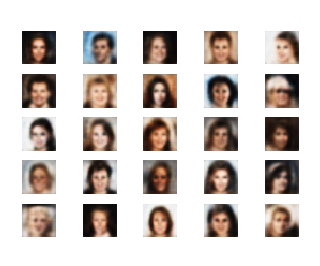
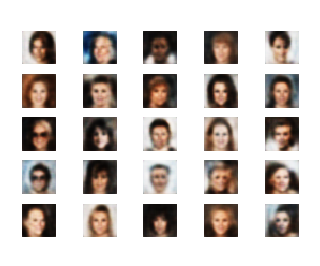
eh?

diff --git a/began_celeba.py b/began_celeba.py
@@ -62,10 +62,11 @@ class CelebABEGAN:
         embedding_shape = (h,)
         noise = tf.keras.layers.Input(shape=embedding_shape, name="h", dtype="float32")
 
-        hid = tf.keras.layers.Dense(8 * 8 * self.n, input_shape=embedding_shape, activation='elu')(noise)
+        hid = tf.keras.layers.Dense(8 * 8 * self.n, input_shape=embedding_shape)(noise)
         hid = tf.keras.layers.Reshape((8, 8, self.n))(hid)
 
         hid = tf.keras.layers.Conv2D(self.n, kernel_size=3, padding='same')(hid)
+        hid = tf.keras.layers.BatchNormalization(momentum=0.8)(hid)
         hid = tf.keras.layers.Activation('elu')(hid)
         hid = tf.keras.layers.Conv2D(self.n, kernel_size=3, padding='same')(hid)
         hid = tf.keras.layers.BatchNormalization(momentum=0.8)(hid)
@@ -74,6 +75,7 @@ class CelebABEGAN:
 
         hid = tf.keras.layers.UpSampling2D((2, 2))(hid)
         hid = tf.keras.layers.Conv2D(self.n, kernel_size=3, padding='same')(hid)
+        hid = tf.keras.layers.BatchNormalization(momentum=0.8)(hid)
         hid = tf.keras.layers.Activation('elu')(hid)
         hid = tf.keras.layers.Conv2D(self.n, kernel_size=3, padding='same')(hid)
         hid = tf.keras.layers.BatchNormalization(momentum=0.8)(hid)
@@ -82,6 +84,7 @@ class CelebABEGAN:
 
         hid = tf.keras.layers.UpSampling2D((2, 2))(hid)
         hid = tf.keras.layers.Conv2D(self.n, kernel_size=3, padding='same')(hid)
+        hid = tf.keras.layers.BatchNormalization(momentum=0.8)(hid)
         hid = tf.keras.layers.Activation('elu')(hid)
         hid = tf.keras.layers.Conv2D(self.n, kernel_size=3, padding='same')(hid)
         hid = tf.keras.layers.BatchNormalization(momentum=0.8)(hid)
@@ -99,6 +102,7 @@ class CelebABEGAN:
         img = tf.keras.layers.Input(shape=self.img_shape, name="image", dtype="float32")
 
         hid = tf.keras.layers.Conv2D(self.n, kernel_size=3, padding='same')(img)
+        hid = tf.keras.layers.BatchNormalization(momentum=0.8)(hid)
         hid = tf.keras.layers.Activation('elu')(hid)
         hid = tf.keras.layers.Conv2D(self.n, kernel_size=3, padding='same')(hid)
         hid = tf.keras.layers.BatchNormalization(momentum=0.8)(hid)
@@ -106,6 +110,7 @@ class CelebABEGAN:
         # (None, 32, 32, n)
 
         hid = tf.keras.layers.Conv2D(2 * self.n, kernel_size=3, padding='same', strides=2)(hid)
+        hid = tf.keras.layers.BatchNormalization(momentum=0.8)(hid)
         hid = tf.keras.layers.Activation('elu')(hid)
         hid = tf.keras.layers.Conv2D(2 * self.n, kernel_size=3, padding='same')(hid)
         hid = tf.keras.layers.BatchNormalization(momentum=0.8)(hid)
@@ -113,8 +118,10 @@ class CelebABEGAN:
         # (None, 16, 16, 2n)
 
         hid = tf.keras.layers.Conv2D(3 * self.n, kernel_size=3, padding='same', strides=2)(hid)
+        hid = tf.keras.layers.BatchNormalization(momentum=0.8)(hid)
         hid = tf.keras.layers.Activation('elu')(hid)
         hid = tf.keras.layers.Conv2D(3 * self.n, kernel_size=3, padding='same')(hid)
+        hid = tf.keras.layers.BatchNormalization(momentum=0.8)(hid)
         hid = tf.keras.layers.Activation('elu')(hid)
         hid = tf.keras.layers.Conv2D(3 * self.n, kernel_size=3, padding='same')(hid)
         hid = tf.keras.layers.BatchNormalization(momentum=0.8)(hid)
@@ -122,7 +129,7 @@ class CelebABEGAN:
         # (None, 8, 8, 3n)
 
         hid = tf.keras.layers.Flatten()(hid)
-        enc_img = tf.keras.layers.Dense(self.h)(hid)
+        enc_img = tf.keras.layers.Dense(self.h, activation='tanh')(hid)
 
         model = tf.keras.models.Model(inputs=img, outputs=enc_img)
         model.summary()
@@ -244,12 +251,12 @@ class CelebABEGAN:
 
         idx = np.random.randint(0, x.shape[0], r * c)
         real = x[idx]
-        real_imgs = self.discriminator.predict(real)
+        real_imgs = self.discriminator(real)
 
         noise = np.random.uniform(-1, 1, (r * c, self.z))
-        gen_imgs = self.generator.predict(noise)
+        gen_imgs = self.generator(noise)
 
-        combined_images = self.combined.predict(noise)
+        combined_images = self.combined(noise)
 
         def save(imgs, fpath):
             # Rescale images 0 - 1
@@ -277,6 +284,6 @@ if __name__ == '__main__':
 
     x = celeba_32(260000)
 
-    gan.train(x, epochs=1000001, k_lambda=0.001, gamma=0.8, batch_size=16, sample_interval=500,
+    gan.train(x, epochs=1000001, k_lambda=0.001, gamma=0.75, batch_size=16, sample_interval=500,
               sample_path="samples/celeba_began_batchnorm_32", save_interval=5000)
     gan.save("models/celeba_began_batchnorm_32")
